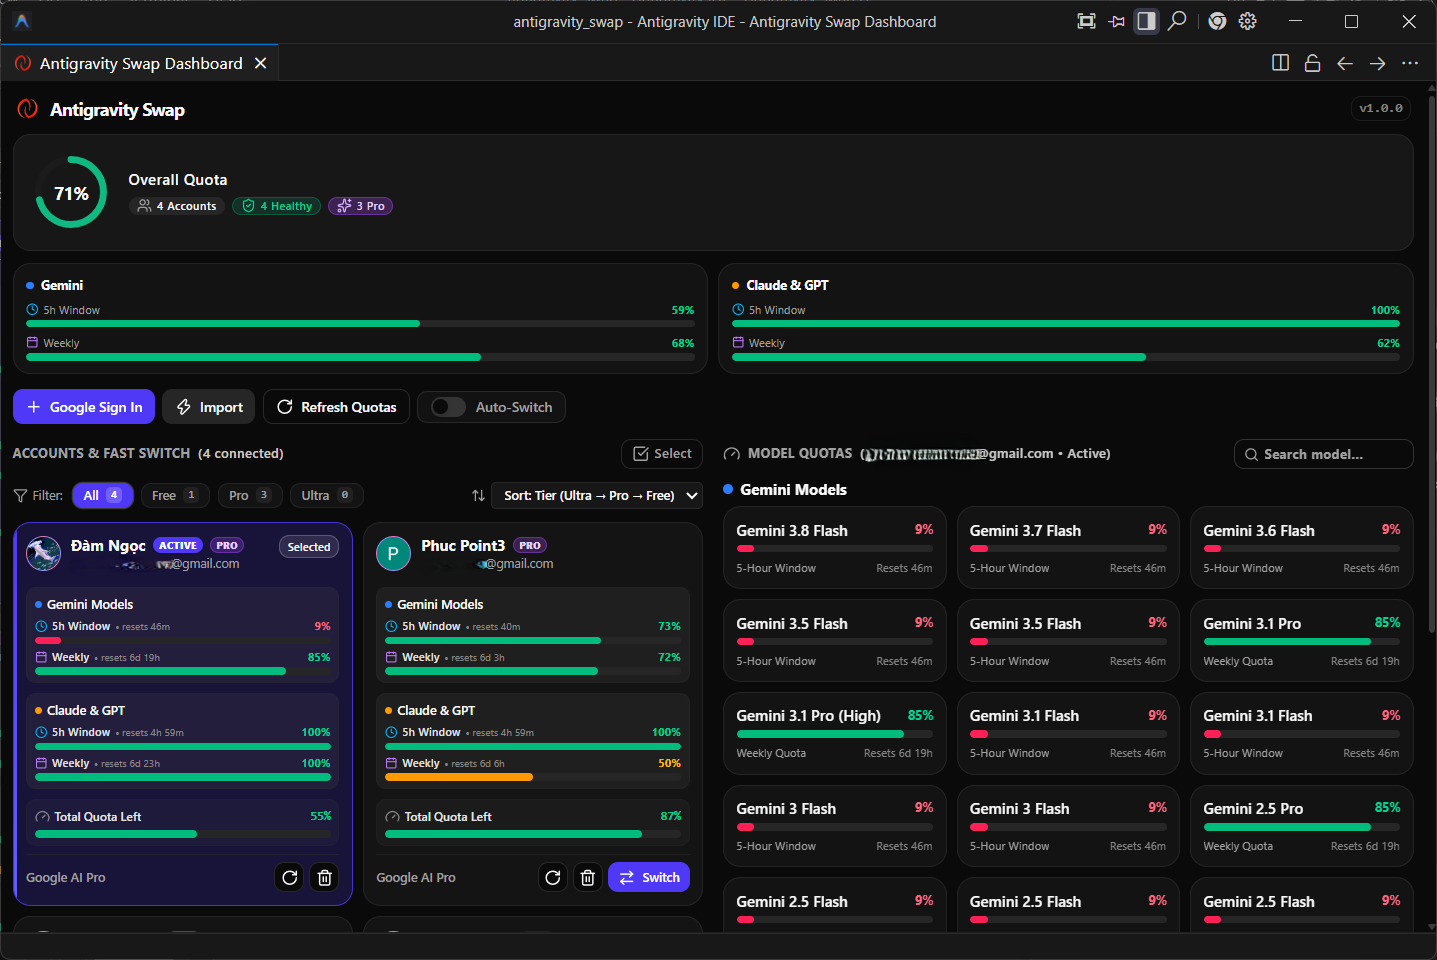
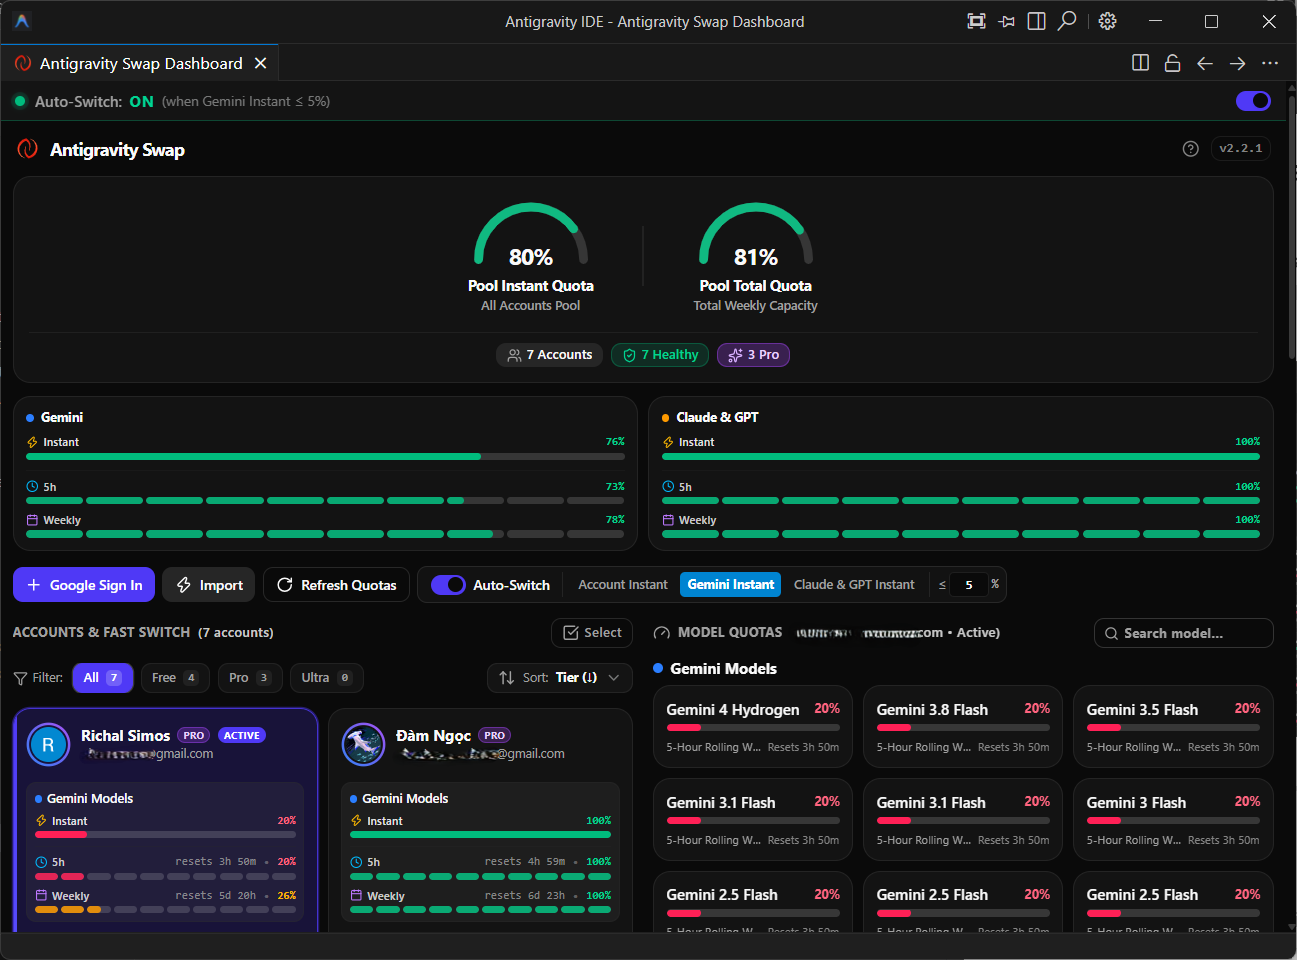
release: v2.2.1 - update version, changelog, readme, and preview screenshots

diff --git a/README.md b/README.md
@@ -12,8 +12,8 @@
 
 ## Preview
 
-### Sidebar Integration & Fast Switch
-Integrated directly into the Antigravity IDE sidebar with account overview and instant switching:
+### Sidebar Integration, Auto-Switch & Status Bar
+Integrated directly into the Antigravity IDE sidebar with Instant & Total Pool gauges, per-window 5-hour / Weekly quota breakdowns, configurable Auto-Switch target, and real-time Status Bar telemetry:
 
 <img src="media/preview-sidebar.png" width="100%" alt="Antigravity Swap Sidebar Preview" />
 
@@ -26,12 +26,12 @@ Full dashboard view with responsive side-by-side account management, Instant quo
 
 ## Key Features
 
-- **Zero-Reload Seamless Switching**: Switch between multiple accounts instantly with zero window reload or IDE restart, fully compatible with the latest Antigravity IDE releases.
-- **High-Speed Direct Cloud Tracking**: Fast and lightweight quota synchronization directly over secure HTTPS.
-- **Decoupled Quota Windows**: Accurately tracks short-term rolling limits and long-term weekly capacity across all supported models.
-- **Instant Quota Health**: Intelligently calculates usable capacity to keep your workflow uninterrupted and prevent sudden lockouts.
-- **Smart Auto-Switch on Low Quota**: Automatically fails over to the healthiest account with candidate verification and self-healing rollback.
-- **Real-Time Multi-Instance Sync**: Synchronizes active credentials, quotas, and state across multiple open IDE windows in real-time.
+- **Zero-Reload Seamless Switching**: Switch between multiple accounts instantly with zero window reload or IDE restart, fully compatible with the latest Antigravity IDE releases via Unified State Sync.
+- **Dual-Layer Real-Time Quota Tracking**: Synchronizes all accounts over secure HTTPS while pairing the Status Bar with live local IDE telemetry (with automatic cloud fallback) for unmatched accuracy.
+- **Decoupled Quota Windows**: Accurately tracks 5-hour rolling limits and 7-day weekly capacity across Gemini, Claude & GPT, and Argon model families.
+- **Instant Quota Health**: Intelligently calculates usable burst capacity (`Account Instant`, `Gemini Instant`, `Claude & GPT Instant`) modulated by weekly reserves to keep your workflow uninterrupted.
+- **Smart Auto-Switch on Low Quota**: Automatically fails over to the healthiest account with live IDE confirmation guard, JIT candidate probing, and self-healing rollback.
+- **Real-Time Multi-Instance Sync**: Synchronizes active credentials, onboarding state, and quotas across multiple open IDE windows in real time.
 - **Detachable Floating Dashboard**: Pop out the dashboard into an independent native floating window to monitor quotas alongside your workspace.
 
 ---
@@ -46,6 +46,7 @@ Full dashboard view with responsive side-by-side account management, Instant quo
 | **Import Active Antigravity Account**<br>`antigravitySwap.importCurrentAntigravity` | 1-click import of the active session from Antigravity IDE |
 | **Re-login / Reconnect Account**<br>`antigravitySwap.reloginAccount` | Re-authenticate or reconnect an expired account |
 | **Add Account (Google OAuth)**<br>`antigravitySwap.addAccount` | Connect a new account via Google OAuth web flow |
+| **Add Account (Manual Token)**<br>`antigravitySwap.addAccountManual` | Add or update an account using an Access / Refresh Token |
 | **Refresh All Account Quotas**<br>`antigravitySwap.refreshQuotas` | Fetch fresh quota balances from cloud services |
 | **Import Detected Accounts**<br>`antigravitySwap.importExistingAccounts` | Auto-detect accounts from local IDE database |
 | **Restore Original IDE Extension**<br>`antigravitySwap.restoreOriginalIdeExtension` | Revert IDE session bridge back to original pristine backup |

diff --git a/CHANGELOG.md b/CHANGELOG.md
@@ -1,8 +1,12 @@
 # Changelog
 
+## 2.2.1 (2026-11-26)
+
+- **Improved IDE Sync**: Improved real-time quota synchronization between the status bar and newer Antigravity IDE updates.
+
 ## 2.2.0 (2026-11-15)
 
-- **New Antigravity IDE Compatibility**: Added full support for the new Antigravity IDE 2.7 architecture, enabling seamless zero-reload hot-switching and automatic FTUE dialog suppression.
+- **New Antigravity IDE Compatibility**: Added full support for the new Antigravity IDE 2.7+ architecture, enabling seamless zero-reload hot-switching and automatic FTUE dialog suppression.
 - **Secondary Quota Verification Layer**: Introduced a secondary IDE verification layer for active account remaining quota calculation, safeguarding auto-switch decisions against API discrepancies and powering real-time status bar quota metrics.
 
 ## 2.1.0 (2026-10-29)
